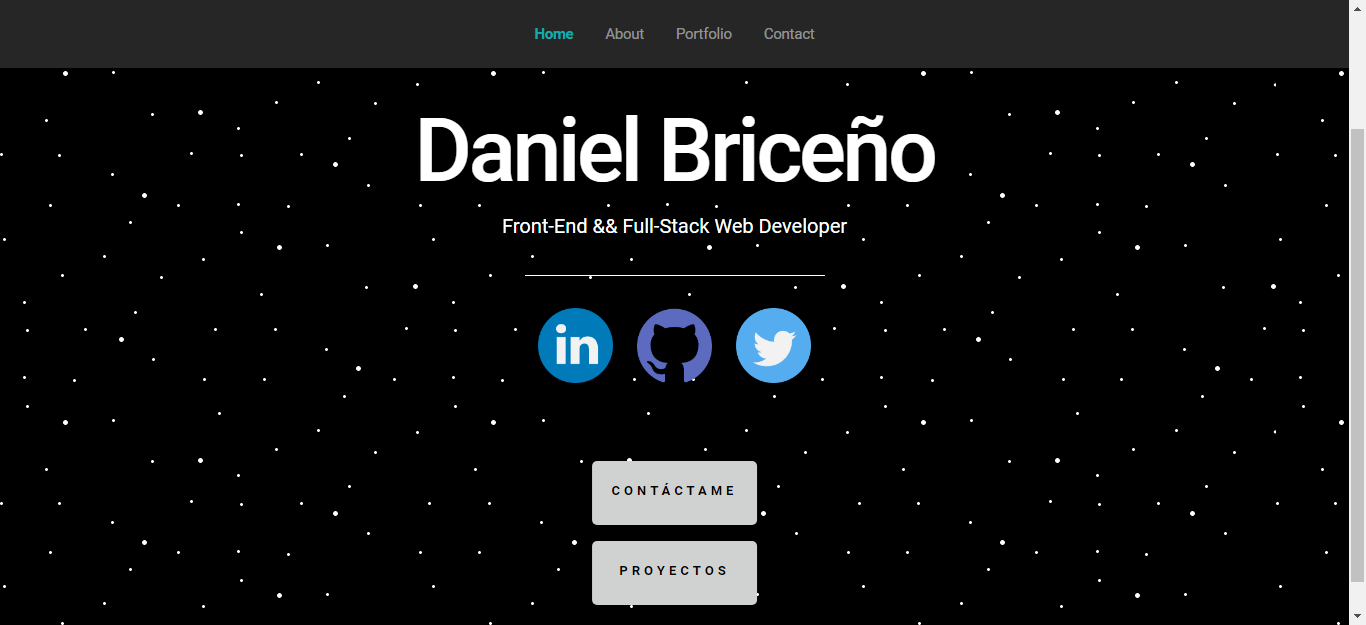
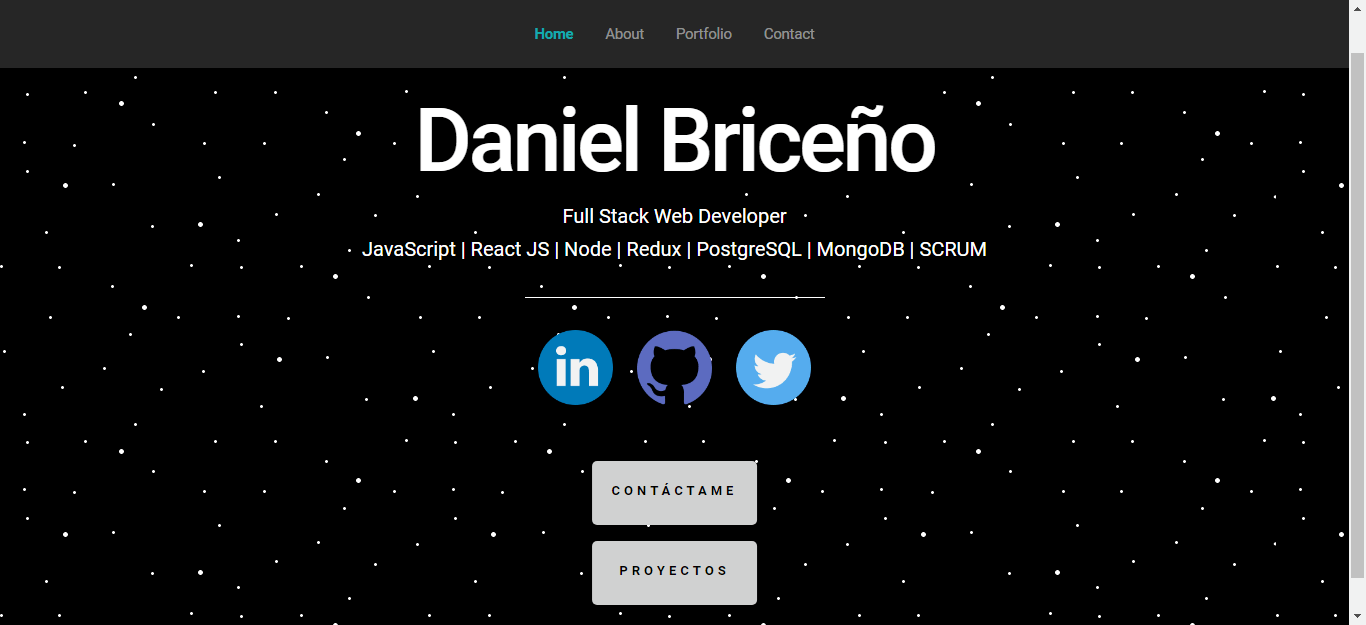
Cambios sugeridos por la correctora, parte3

diff --git a/src/components/About.js b/src/components/About.js
@@ -1,6 +1,6 @@
 import React from "react";
 import Skills from "./Skills";
-import userPhoto from "../assets/image/photo-perfil-fondo-blanco-recortada.png";
+import userPhoto from "../assets/image/fondo-blanco.png";
 import "./styles/About.css";
 import CV from "../assets/cv/Daniel_Briceno_CV.pdf";
 
@@ -42,7 +42,7 @@ const About = () => {
               </span>
             </h2>
             <br />
-            <h3 className="about-me center font-500">Front-end</h3>
+            <h3 className="about-me center font-500">Front-End</h3>
             <p className="about-description">
               {/* Como desarrollador en javascript, tengo experiencia en el manejo
               de HTML y CSS, además del manejo de frameworks y liberías,
@@ -54,20 +54,20 @@ const About = () => {
 
             </p>
             <p className="about-description">
-              Mi proyecto favorito en este sentido sería WikiDex, es una SPA, la cual, conectada a un backend permite al usuario trater a todos los pokemones existentes para renderizarlos en una serie de cards. Permite buscarlos por nombre o por id, así como también poder filtrarlos mediante varios filtros predefinidos. La app tambie nos da la posibilidad, mediante un formulario controlado, crear nuevos pokemones con atributos definidos por el usuario (estos se guardaran en una base de datos).
+              Mi proyecto favorito en este sentido sería WikiDex, es una SPA, la cual, conectada a un backend permite al usuario traer a todos los pokemones existentes para renderizarlos en una serie de cards. Permite buscarlos por nombre o por id, así como también poder filtrarlos mediante varios filtros predefinidos. La app tambie nos da la posibilidad, mediante un formulario controlado, crear nuevos pokemones con atributos definidos por el usuario (estos se guardaran en una base de datos).
             </p>
             <p className="about-description">
-              Esta app hace uso de la libería React-Redux para manejar estados globales en la misma, además de los estados locales propios de cada componente en React. Cuenta distintas secciones y páginas panejadas por rutas, sobre las que aprovecho las aracterísticas de React para reutilizar componentes. Las tecnologías que utilicé fueron HTML, CSS, JavaScript, React JS, React-Redux, Node JS, Express, PostgreSQL, Sequelize, Git/Github
+              Esta app hace uso de la libería React-Redux para manejar estados globales en la misma, además de los estados locales propios de cada componente en React. Cuenta distintas secciones y páginas panejadas por rutas, sobre las que aprovecho las características de React para reutilizar componentes. Las tecnologías que utilicé fueron HTML, CSS, JavaScript, React JS, React-Redux, Node JS, Express, PostgreSQL, Sequelize, Git/Github
             </p>
             <br />
-            <h3 className="about-me center font-500">Back-end</h3>
+            <h3 className="about-me center font-500">Back-End</h3>
             <p className="about-description">
               Utilizando Express y Node, puedo crear rutas para APIs REST,
               protegerlas e implementar bases de datos SQL y
               NoSQL como PostgreSQL y MongoDB.
             </p>
             <p className="about-description">
-              En este sentido mi proyecto fue el de Learnzilla - Academia Online, proyecto colaborativo en el cual me estuve desempeñando principalmente como desarrollador backend. Es una plataforma de cursos online, con un backend creado principalmente con Node, Express y Sequelize como ORM para PostgreSQL. Para el mismo se han definido diferentes rutas para crear registros (de usuarios, cursos, videos, etc), permir que los usuarios se logueen validando su infromación, editar y eliminar distintos registros y hacer peticiones a la base de datos.  
+              En este sentido mi proyecto fue el de Learnzilla - Academia Online, proyecto colaborativo en el cual me estuve desempeñando principalmente como desarrollador backend. Es una plataforma de cursos online, con un backend creado principalmente con Node, Express y Sequelize como ORM para PostgreSQL. Para el mismo se han definido diferentes rutas para crear registros (de usuarios, cursos, videos, etc), permir que los usuarios inicien seción validando su información, editar y eliminar distintos registros y hacer peticiones a la base de datos.  
             </p>
             <p className="about-description">
               Adicionalmente se implementó mediante Multer, la característica de poder cargar distintos archivos multimedias al proyecto y poder guardarlos en Google Dirve. Las tecnologías que utilicé fueron HTML, CSS, JavaScript, React JS, React-Redux, Material UI , Node JS, Express, PostgreSQL, Sequelize, Figma, Multer, Google-Drive-Api, Git/Github

diff --git a/src/components/Header.js b/src/components/Header.js
@@ -9,22 +9,22 @@ const Header = () => {
           <ul>
             <li id="home">
               <NavLink activeClassName="current" to="/" exact>
-                Inicio
+                Home
               </NavLink>
             </li>
             <li id="about">
               <NavLink activeClassName="current" to="/about">
-                Acerca de
+                About
               </NavLink>
             </li>
             <li id="portfolio">
               <NavLink activeClassName="current" to="/portfolio">
-                Proyectos
+                Portfolio
               </NavLink>
             </li>
             <li id="contact">
               <NavLink activeClassName="current" to="/contact">
-                Contáctame
+                Contact
               </NavLink>
             </li>
           </ul>

diff --git a/public/index.html b/public/index.html
@@ -16,7 +16,7 @@
     <meta
       name="description"
       property="og:description"
-      content="Hola, mi nombre es Daniel Briceño, Frontend Developer, actualmente formándome como FullStack web developer en Henry, donde también me desempeño como Teacher Assistant para Fullstack JavaScript Developer.
+      content="Hola, mi nombre es Daniel Briceño, soy Full Sack Developer.
 
       Soy entusiasta de la educación digital y apasionado de la educación efectiva, del rápido aprendizaje y del crecimiento personal y profesional, me encanta crear productos digitales. Aunque mi especialidad es frontend, hoy me estoy desarrollando como especialista en backend para ser un fullstack web javascript developer. 
       

diff --git a/src/components/styles/Form.css b/src/components/styles/Form.css
@@ -48,7 +48,8 @@
   background-color: var(--normal-white);
 }
 
-@media (max-width: 503px) {
+/* @media (max-width: 503px) { */
+  @media (max-width: 650px) {
   .inputs-container {
     display: flex;
     flex-direction: column;
@@ -80,7 +81,7 @@
   width: 100%;
   resize: vertical;
   max-width: 500px;
-  min-width: 280px;
+  min-width: 255px;
   max-height: 400px;
   min-height: 150px;
   box-shadow: 0px 4px 8px rgba(89, 73, 30, 0.16);
@@ -122,6 +123,12 @@
 
 .error {
   border: solid 1px var(--red-bootstrap) !important;
+}
+
+@media (max-width: 375px) {
+  #valid-form input {
+    min-width: 140px;
+  }
 }
 
 .swal-button {

diff --git a/src/global.css b/src/global.css
@@ -19,6 +19,11 @@
 
   .s-hero {
     margin-top: 20px;
+    min-height: calc(25.5 * var(--space)); /*Temporal hasta solucionar menu hamburgesa*/
+  }
+
+  .s-portfolio {
+    padding-top: calc(6 * var(--space)); /*Temporal hasta solucionar menu hamburgesa*/
   }
 
   .s-contact {
